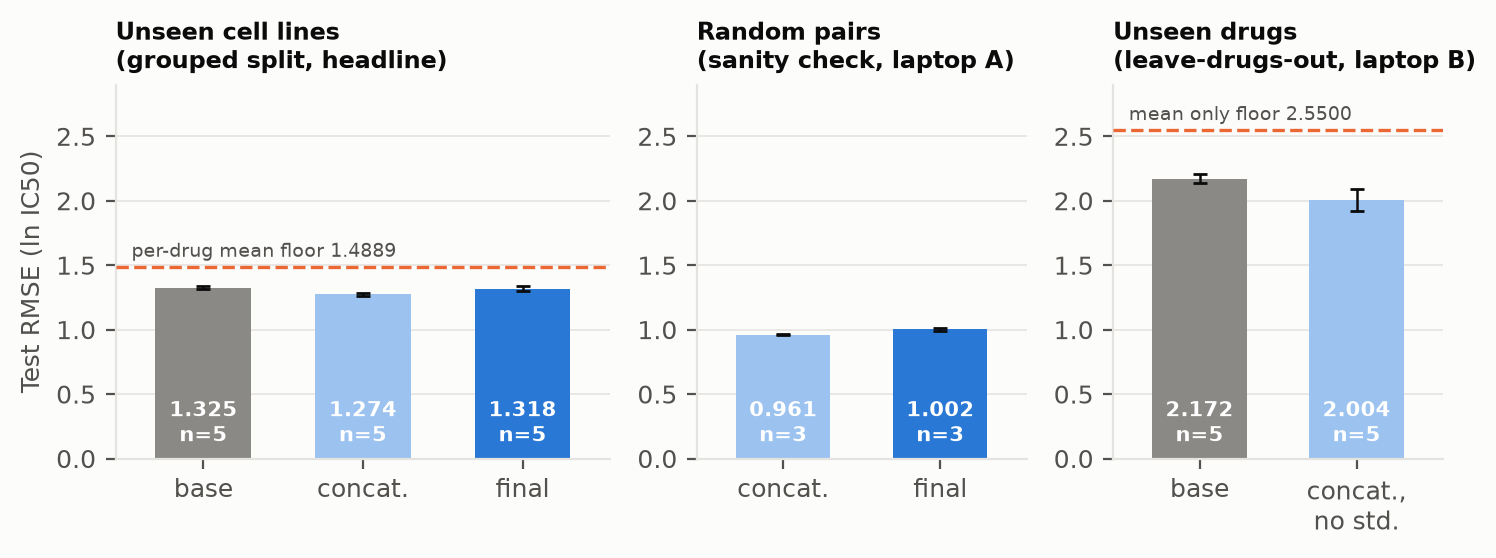
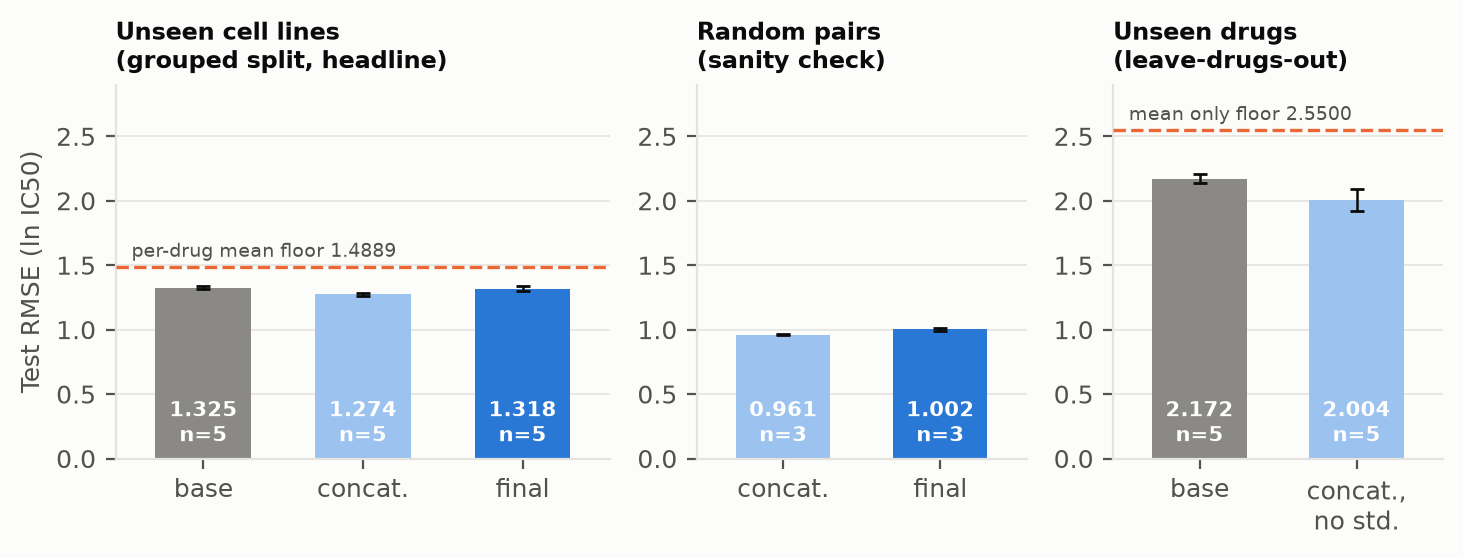
Report figures: drop machine names from Figure 4 panel titles

diff --git a/reports/final_report/figures/make_report_figures.py b/reports/final_report/figures/make_report_figures.py
@@ -158,9 +158,9 @@ def fig_protocols() -> None:
     panels = [
         ("Unseen cell lines\n(grouped split, headline)", grouped,
          [("base", "base"), (CONCAT, "concat"), (FINAL, "final")], PER_DRUG_FLOOR, "per-drug mean"),
-        ("Random pairs\n(sanity check, laptop A)", random_a,
+        ("Random pairs\n(sanity check)", random_a,
          [("final", "concat"), (FINAL, "final")], None, None),
-        ("Unseen drugs\n(leave-drugs-out, laptop B)", ldo,
+        ("Unseen drugs\n(leave-drugs-out)", ldo,
          [("base", "base"), ("base+proteomics+mol_graph+pair_features", "ldo")], 2.5500, "mean only"),
     ]
     fig, axes = plt.subplots(1, 3, figsize=(7.4, 2.9), gridspec_kw={"width_ratios": [3, 2, 2]})
